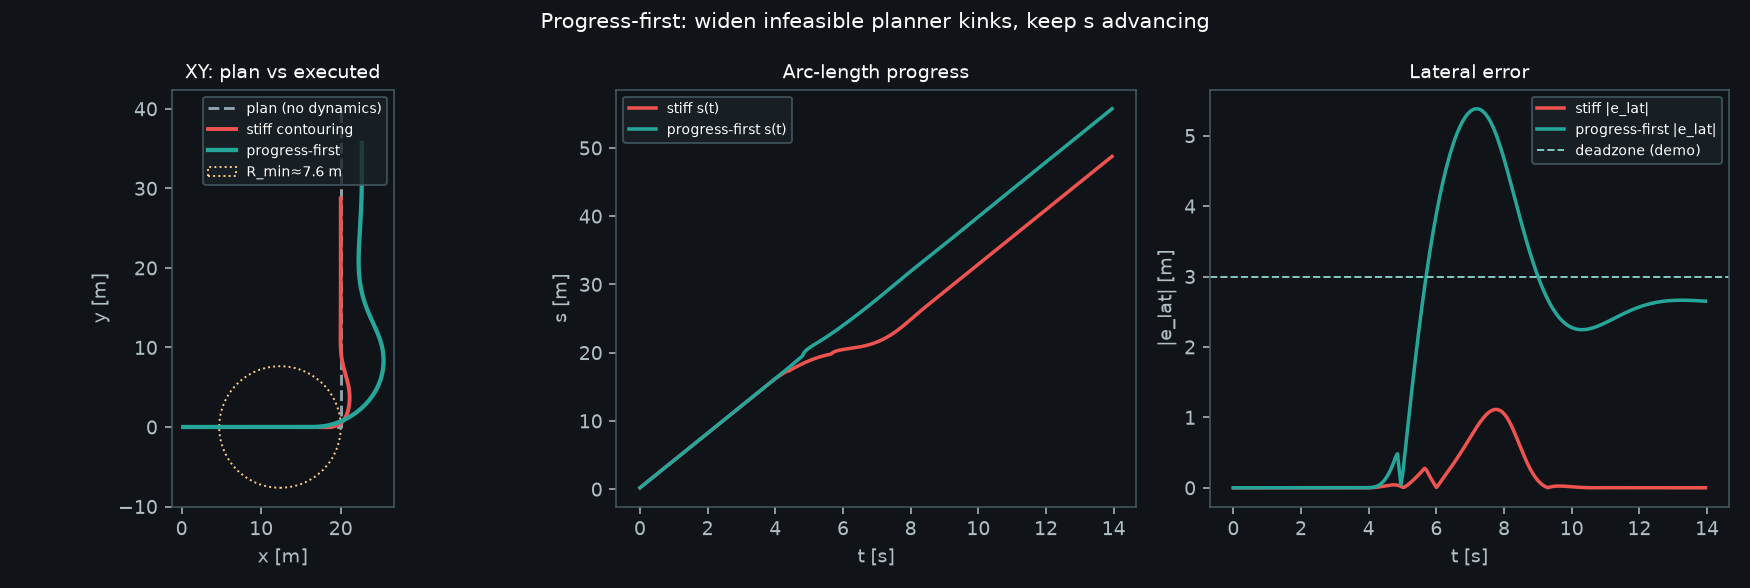
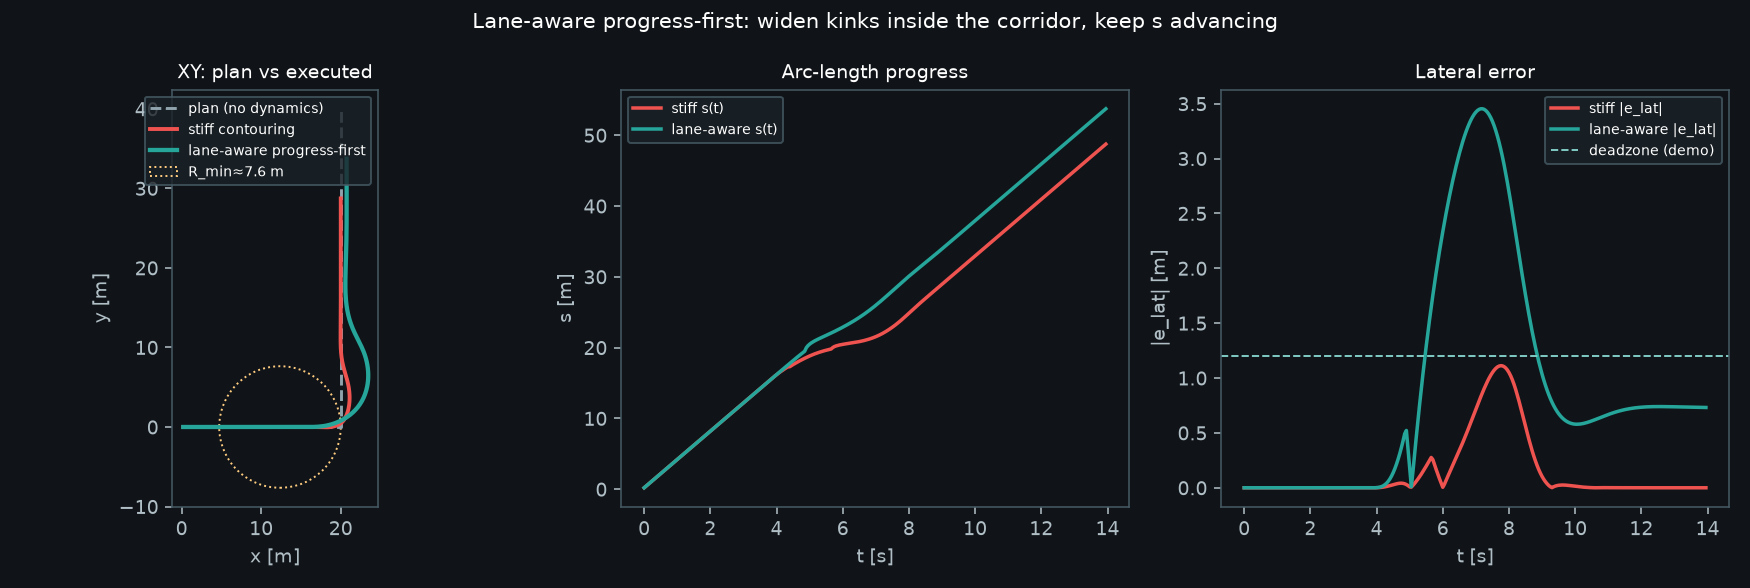
fix(simulator): wire city lag/deadzone into race MPC factory
build_vehicle_mpc_sim reconstructed PathFollowingMPCConfig without
weight_lag and contour_deadzone, so every city YAML progress-first /
lane-aware retune was silently dropped at race start.  Preserve the
full config via dataclasses.replace and raise city obstacle weight so
the topological lane stays clear of buildings.

diff --git a/tests/control/mpc/test_tracking_loop.py b/tests/control/mpc/test_tracking_loop.py
@@ -2,6 +2,8 @@
 
 from __future__ import annotations
 
+import math
+
 import pytest
 
 casadi = pytest.importorskip("casadi")
@@ -85,3 +87,39 @@ def test_build_vehicle_mpc_sim_factory() -> None:
     assert abs(vehicle.x - 0.0) < 1e-12
     metrics = loop.step(path, dt=0.05)
     assert "mpc_solver_success" in metrics
+
+
+def test_build_vehicle_mpc_sim_preserves_progress_first_weights() -> None:
+    """City YAML lag / deadzone must reach the race NMPC instance.
+
+    ``build_vehicle_mpc_sim`` used to reconstruct PathFollowingMPCConfig
+    without ``weight_lag`` / ``contour_deadzone``, silently disabling
+    progress-first contouring for every city racer.
+    """
+    path = [(0.0, 0.0), (20.0, 0.0), (20.0, 20.0)]
+    cfg = VehicleConfig(
+        max_speed=16.0,
+        min_speed=0.0,
+        cruise_speed=12.0,
+        lookahead_distance=28.0,
+        goal_radius=20.0,
+        max_turn_rate=math.radians(40.0),
+        max_acceleration=2.5,
+        max_turn_rate_dot=math.radians(90.0),
+    )
+    mpc_cfg = PathFollowingMPCConfig.create_from_config().with_weight_overrides(
+        contour=8.0,
+        heading=4.0,
+        progress=4.0,
+        lag=4.0,
+        control=0.5,
+        obstacle=120.0,
+        contour_deadzone=2.5,
+    )
+    _vehicle, loop = build_vehicle_mpc_sim(path, cfg, mpc_cfg)
+    live = loop.tracker.config
+    assert abs(live.cruise_speed - 12.0) < 1e-12
+    assert abs(live.weight_lag - 4.0) < 1e-12
+    assert abs(live.contour_deadzone - 2.5) < 1e-12
+    assert abs(live.weight_contour - 8.0) < 1e-12
+    assert abs(live.weight_obstacle - 120.0) < 1e-12

diff --git a/src/arco/simulator/sim/tracking.py b/src/arco/simulator/sim/tracking.py
@@ -9,7 +9,7 @@ list of (x, y) waypoints.
 from __future__ import annotations
 
 import math
-from dataclasses import dataclass, field
+from dataclasses import dataclass, field, replace
 from typing import TYPE_CHECKING, Any, Optional
 
 if TYPE_CHECKING:
@@ -286,21 +286,10 @@ def build_vehicle_mpc_sim(
         max_turn_rate_dot=cfg.max_turn_rate_dot,
     )
     # VehicleConfig.cruise_speed is the authoritative cruise for the sim;
-    # MPC weights / horizon come from mpc_cfg.
-    effective_mpc_cfg = PathFollowingMPCConfig(
-        horizon_step_count=mpc_cfg.horizon_step_count,
-        dt=mpc_cfg.dt,
-        cruise_speed=cfg.cruise_speed,
-        weight_contour=mpc_cfg.weight_contour,
-        weight_heading=mpc_cfg.weight_heading,
-        weight_progress=mpc_cfg.weight_progress,
-        weight_control=mpc_cfg.weight_control,
-        weight_obstacle=mpc_cfg.weight_obstacle,
-        obstacle_barrier_power=mpc_cfg.obstacle_barrier_power,
-        weight_terminal=mpc_cfg.weight_terminal,
-        weight_slack=mpc_cfg.weight_slack,
-        max_solver_iter_count=mpc_cfg.max_solver_iter_count,
-    )
+    # all other MPC fields (including lag / contour_deadzone) come from
+    # mpc_cfg.  A manual field copy previously dropped progress-first keys,
+    # so city YAML deadzone/lag never reached the race NMPC.
+    effective_mpc_cfg = replace(mpc_cfg, cruise_speed=cfg.cruise_speed)
     tracker = DubinsPathFollowingMPC(
         vehicle_limits=limits,
         config=effective_mpc_cfg,

diff --git a/tests/simulator/sim/test_city_race_style.py b/tests/simulator/sim/test_city_race_style.py
@@ -164,3 +164,4 @@ def test_city_map_yaml_declares_lane_aware_progress_first() -> None:
         # Free band ≪ road half-width (15 m) and planner clearance (8 m).
         deadzone = float(weights["contour_deadzone"])
         assert 1.0 <= deadzone <= 4.0
+        assert float(weights["obstacle"]) >= 100.0
